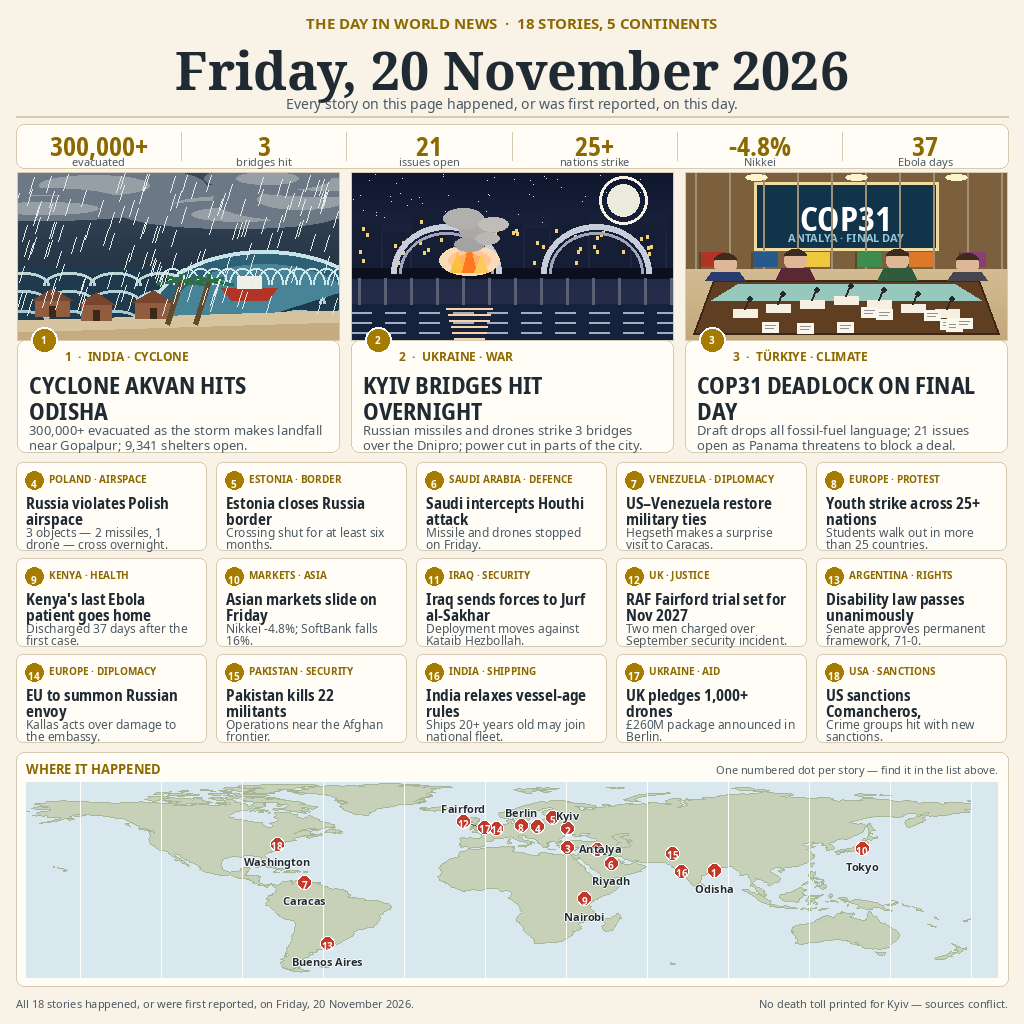
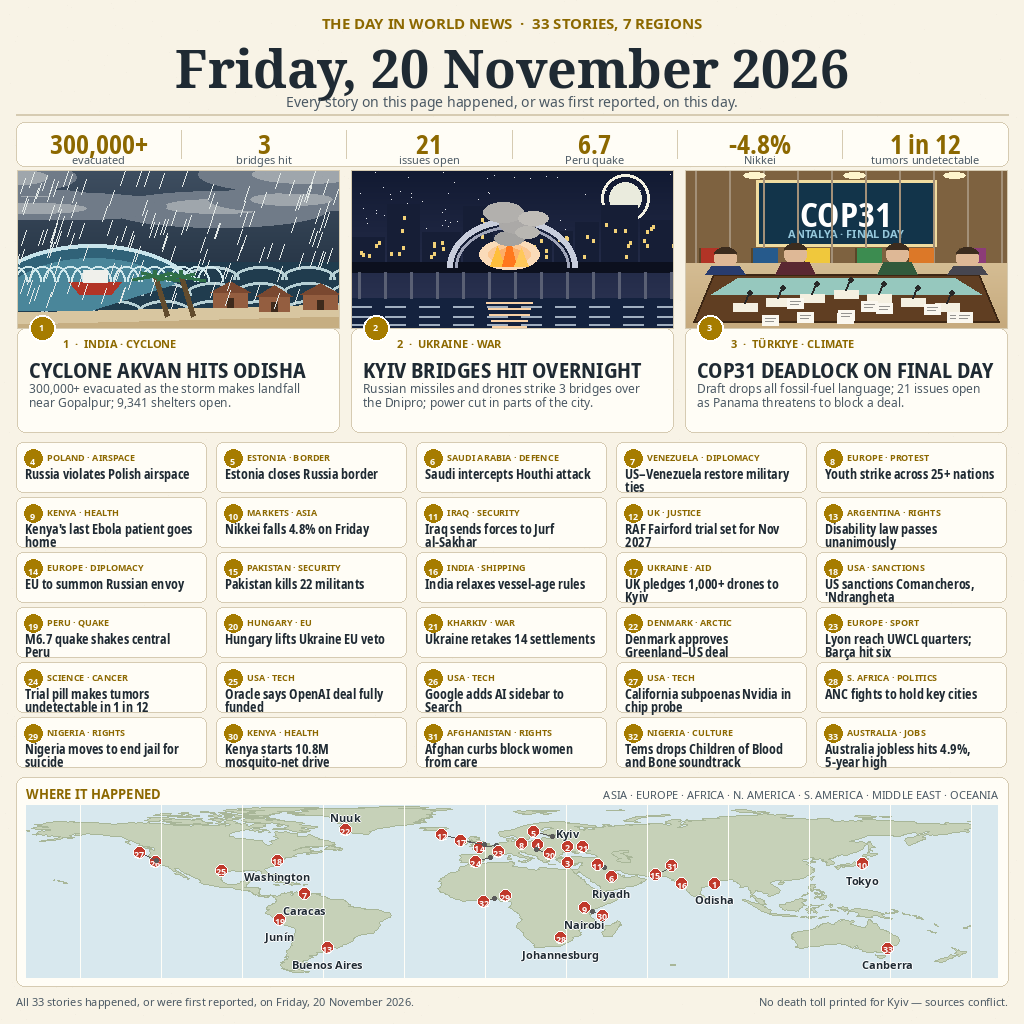
news-image-20261120 v3: 33 stories, 7 regions — breadth only, same proven design

diff --git a/main.ts b/main.ts
@@ -1,22 +1,27 @@
 // SPDX-License-Identifier: MIT
 //
-// news-image-20261120 v2: "Friday, 20 November 2026 — 18 stories".
-// The poster is entry.png next to this file, rendered in-session with
-// PIL and the Noto system fonts. This program only places an exact copy
-// of it at /output/entry.png, so both graded runs are byte-identical.
-// Node 22, standard library only, no network, no fonts at runtime.
+// news-image-20261120 v3: "Friday, 20 November 2026 — 33 stories, 7 regions".
+// The poster itself is entry.png beside this file, rendered in-session with
+// PIL and the Noto system fonts (see the work directory's render.py). This
+// program does nothing creative: it places an exact copy of that image at
+// /output/entry.png, so the two graded runs write identical bytes.
+// Node 22, standard library only. No network, no fonts, no state.
 import { mkdirSync, readFileSync, statSync, writeFileSync } from "node:fs";
 import { dirname, join } from "node:path";
 import { fileURLToPath } from "node:url";
 
 const here = dirname(fileURLToPath(import.meta.url));
-const destDir = process.env.MAKEFUN_OUTPUT_DIR ?? "/output";
-mkdirSync(destDir, { recursive: true });
-const src = join(here, "entry.png");
-const bytes = readFileSync(src);
-const out = join(destDir, "entry.png");
-writeFileSync(out, bytes);
-// Fail loudly instead of shipping a truncated copy.
-if (statSync(out).size !== bytes.length) {
-  throw new Error(`entry.png write mismatch: ${statSync(out).size} != ${bytes.length}`);
+const outDir = process.env.MAKEFUN_OUTPUT_DIR ?? "/output";
+mkdirSync(outDir, { recursive: true });
+
+const source = join(here, "entry.png");
+const bytes = readFileSync(source);
+const target = join(outDir, "entry.png");
+writeFileSync(target, bytes);
+
+const written = statSync(target).size;
+if (written !== bytes.length) {
+  throw new Error(
+    `entry.png copy failed: wrote ${written} bytes, expected ${bytes.length}`,
+  );
 }

diff --git a/README.md b/README.md
@@ -4,7 +4,7 @@
 [![rank](https://make.fun/badge/news-image-20261120/hotlinebro/news-image-20261120/rank.svg)](https://make.fun/bounty/news-image-20261120/leaderboard?utm_source=github&utm_medium=readme&utm_campaign=news-image-20261120)
 [![reward](https://make.fun/badge/news-image-20261120/hotlinebro/news-image-20261120/reward.svg)](https://make.fun/bounty/news-image-20261120?utm_source=github&utm_medium=readme&utm_campaign=news-image-20261120)
 
-One image summing up Friday, November 20, 2026: Cyclone Akvan's landfall in Odisha, Russian strikes on Kyiv's bridges, and the COP31 deadlock in Antalya. 18 stories across 5 continents, rendered in-session with PIL and the Noto system fonts — smooth vector type, no pixel fonts.
+One image summing up Friday, November 20, 2026: Cyclone Akvan's landfall in Odisha, Russian strikes on Kyiv's bridges, and the COP31 deadlock in Antalya. 33 stories across 7 regions — including sport, tech, science and culture, from Peru to Australia — rendered in-session with PIL and the Noto system fonts: smooth vector type, no pixel fonts, one numbered dot per story on the world map.
 
 ## Run it
 
@@ -12,7 +12,7 @@ One image summing up Friday, November 20, 2026: Cyclone Akvan's landfall in Odis
 mkdir -p out && MAKEFUN_OUTPUT_DIR=out node main.ts
 ```
 
-The poster itself is drawn by `render.py` (kept with the build notes, not the entry): `python3 render.py` writes `entry.png`, and `main.ts` copies that file to `/output`.
+The poster itself is drawn by `render.py` (kept with the build notes, not the entry): `python3 render.py` writes `entry.png`, and `main.ts` copies that file to `/output`. Two runs write byte-identical PNGs.
 
 ---
 
